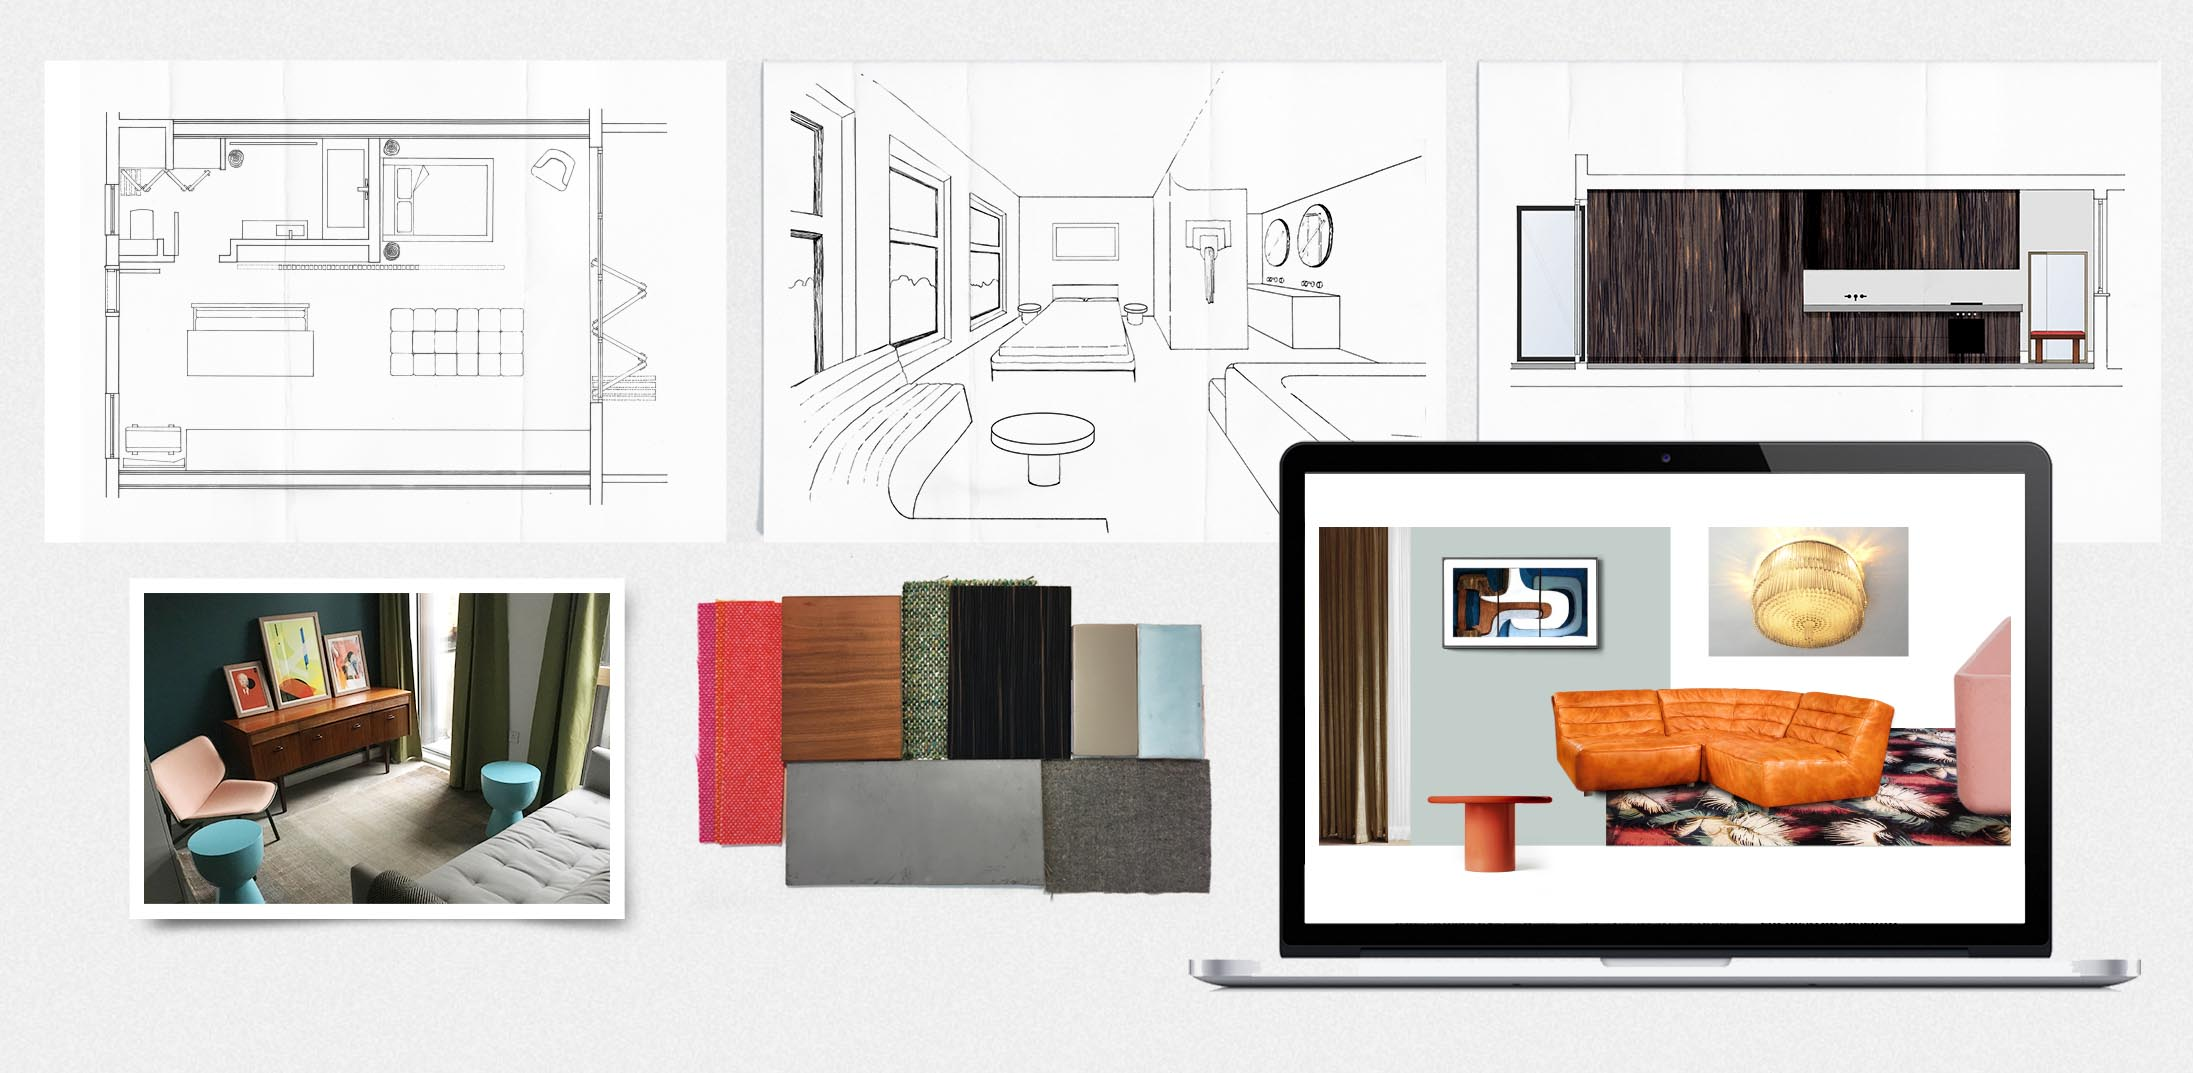
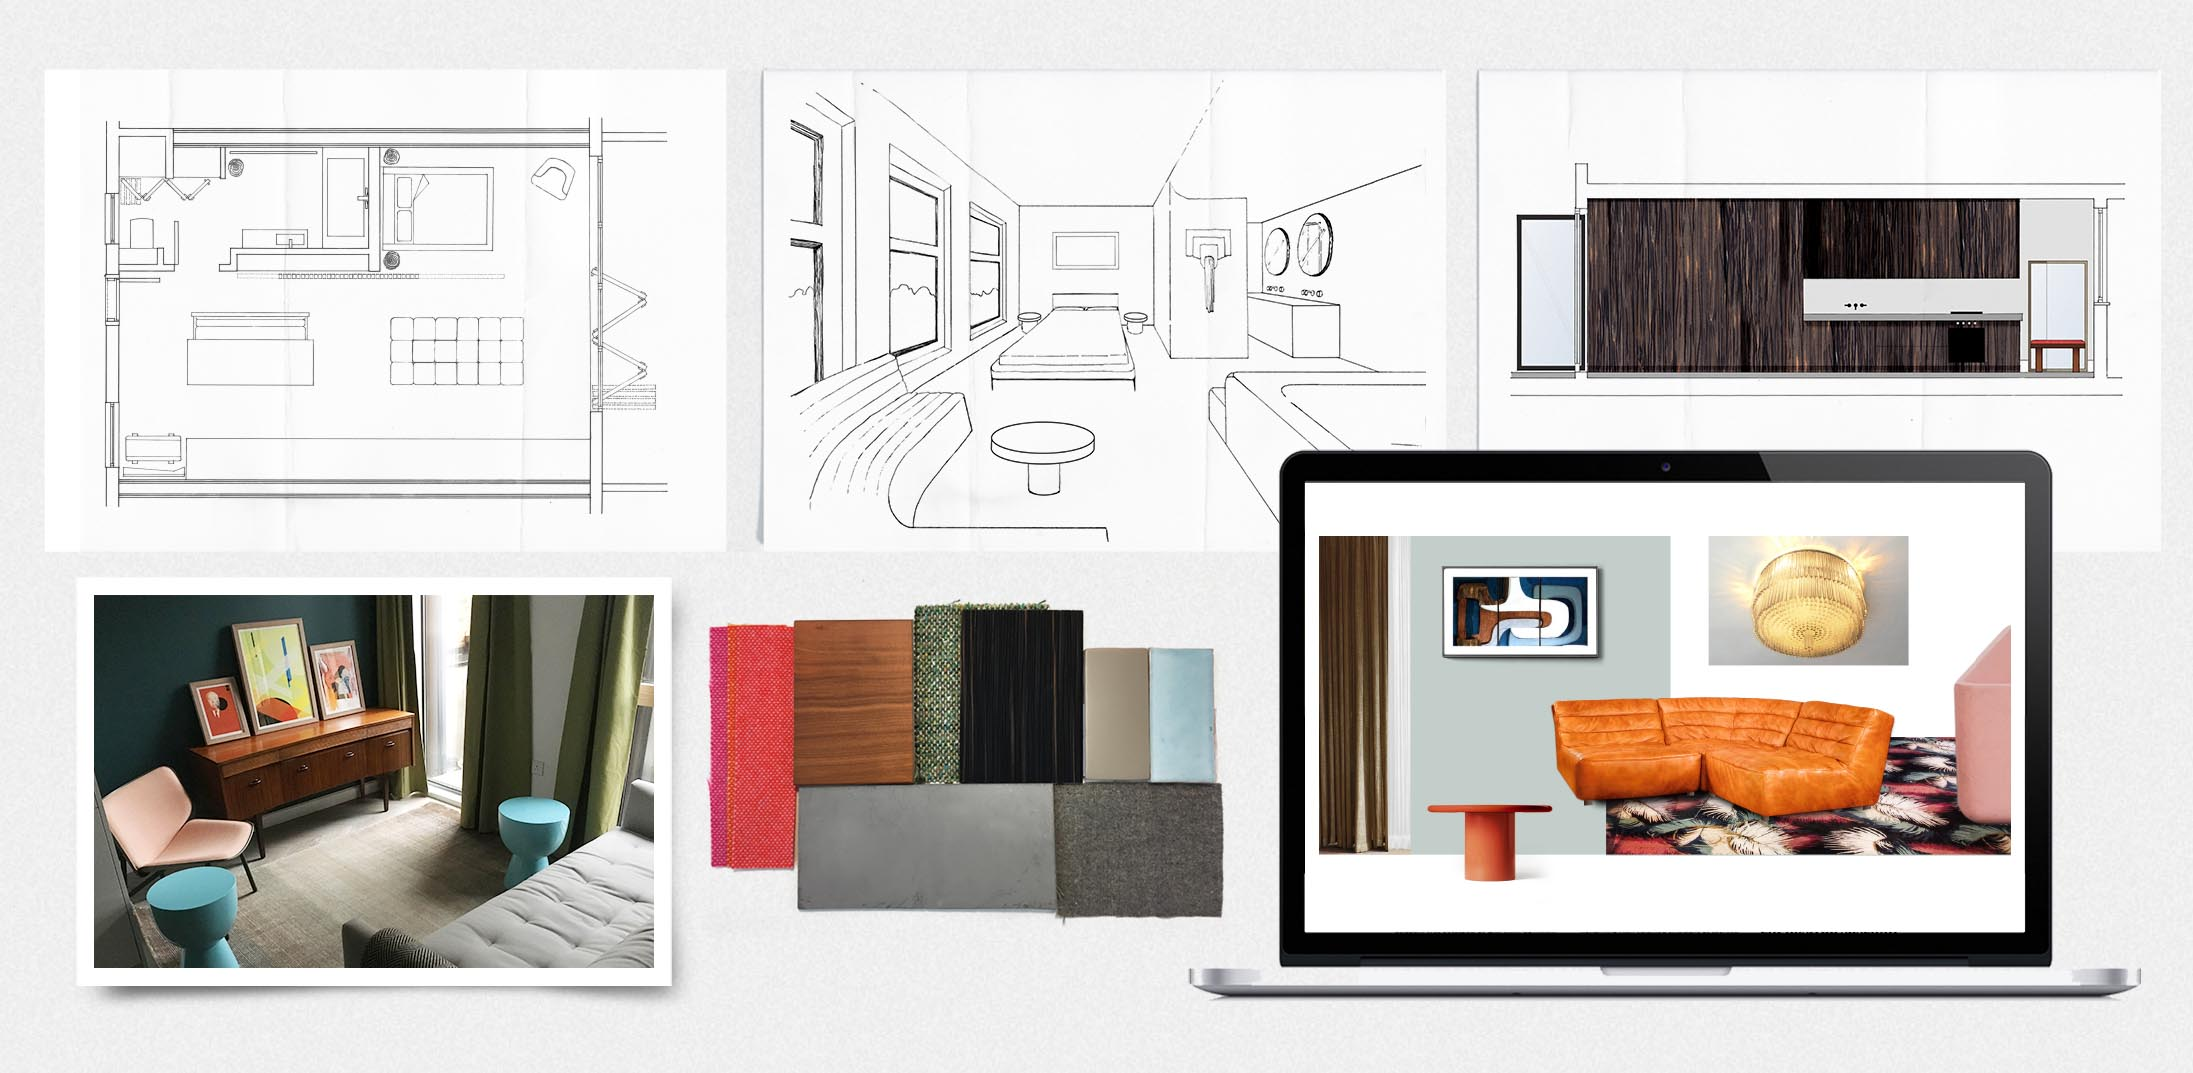
About me simplified 2

diff --git a/about.html b/about.html
@@ -84,16 +84,13 @@
 </div>
 
 
-<!-- END your content here -->
 </div>
 
 
 <p><h3></h3></p>
 
-
-
 <div class="grid-50">
- <img src="../images/detail/About/gavinvanrood.com_About_AD.jpg">
+ <img src="../images/detail/About/gavinvanrood.com_About_AD_2.jpg">
 </div>
 
 
